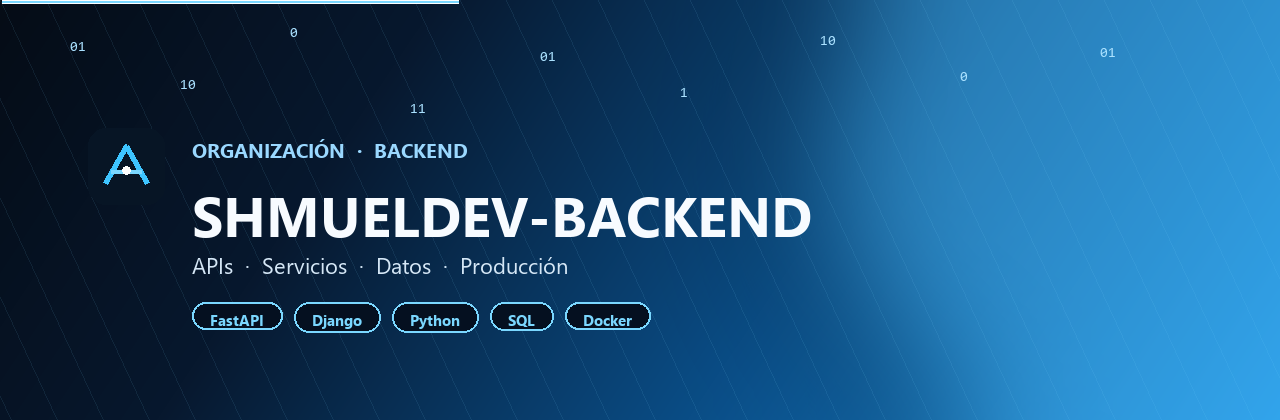
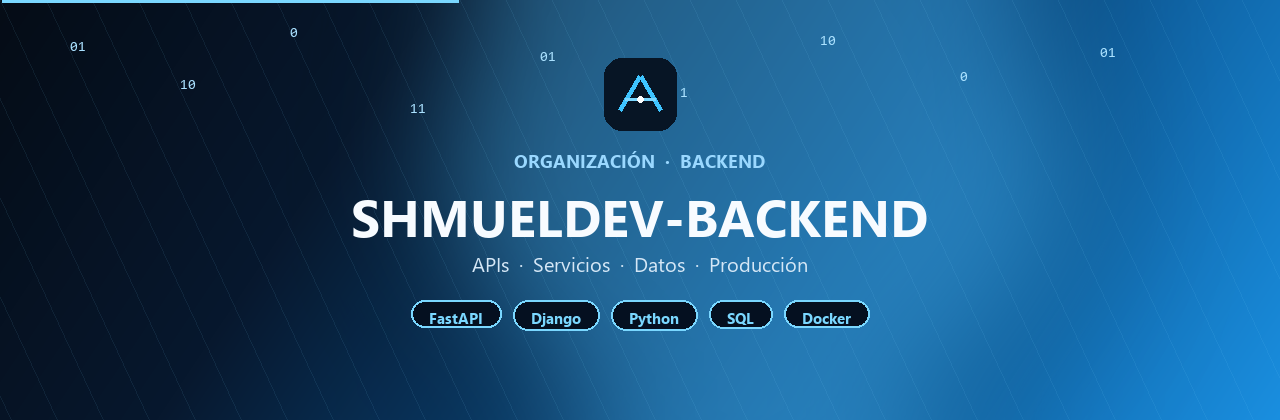
Mejora de la estructura

diff --git a/README.md b/README.md
@@ -4,41 +4,22 @@
 
 <br/>
 
-<p align="center">
-  <img src="https://img.shields.io/badge/ORG-SHMUELDEV--BACKEND-3ec4ff?style=for-the-badge&labelColor=050c16" alt="org" />
-  <img src="https://img.shields.io/badge/FOCUS-Backend%20%26%20APIs-1686d4?style=for-the-badge&labelColor=050c16" alt="focus" />
-  <img src="https://img.shields.io/badge/STATUS-Active-0e6aaf?style=for-the-badge&labelColor=050c16" alt="status" />
-</p>
+## Sobre la organización
 
-<p align="center">
-  <b>Casa de todos los proyectos backend de SHMUELDEV.</b><br/>
-  APIs claras · servicios operables · código listo para producción.
-</p>
+**SHMUELDEV-BACKEND** concentra los proyectos backend de la marca SHMUELDEV: APIs, servicios, acceso a datos y piezas listas para operar en producción.
+
+El objetivo no es acumular demos sueltas. Cada repositorio debe resolver un dominio claro, exponer un contrato entendible y poder levantarse sin adivinar pasos ocultos.
 
 ---
 
-## Enfoque
+## Qué encontrarás aquí
 
-<table>
-  <tr>
-    <td width="25%" valign="top">
-      <h3>APIs</h3>
-      FastAPI y Django con contratos claros, versionados y documentados.
-    </td>
-    <td width="25%" valign="top">
-      <h3>Datos</h3>
-      SQL, capas de acceso y modelos de dominio sin atajos frágiles.
-    </td>
-    <td width="25%" valign="top">
-      <h3>Servicios</h3>
-      Auth, reglas de negocio y orquestación que se pueden operar.
-    </td>
-    <td width="25%" valign="top">
-      <h3>Producción</h3>
-      Estructura, pruebas y despliegue: si no corre, no está listo.
-    </td>
-  </tr>
-</table>
+| Área | Contenido |
+| --- | --- |
+| **APIs** | Servicios HTTP con FastAPI o Django, documentados y versionados |
+| **Datos** | SQL, capas de acceso y modelos de dominio |
+| **Servicios** | Auth, reglas de negocio y orquestación entre componentes |
+| **Producción** | Estructura, pruebas, Docker y despliegue operable |
 
 ---
 
@@ -53,43 +34,31 @@
   <img src="https://img.shields.io/badge/Auth-050c16?style=for-the-badge&logo=auth0&logoColor=7ad7ff" alt="Auth" />
 </p>
 
-```text
-Python · FastAPI · Django · SQL · Auth · APIs · Docker
-```
-
 ---
 
-## Repositorios
-
-> Cada repo es un servicio o un dominio claro. La tabla se actualiza al publicar.
+## Proyectos
 
 | Proyecto | Descripción | Estado |
 | --- | --- | --- |
-| — | Primer servicio / API de la organización | En preparación |
+| API base | Primer servicio HTTP de la organización (auth + health + CRUD) | Próximo |
+| Auth service | Autenticación y autorización reutilizable entre servicios | Planeado |
+| Data layer | Plantilla de acceso a SQL y modelos de dominio | Planeado |
+
+> Cuando un repo se publique, esta tabla se actualiza con el enlace real.
 
 ---
 
-## Criterio de trabajo
+## Convenciones
 
-```diff
-+ Un repo = un servicio o un dominio claro
-+ README corto + contrato de API visible
-+ Entorno reproducible desde el día uno
-- Lo que no se puede operar no se considera terminado
-```
-
-1. Mismo criterio visual y de código que el resto de SHMUELDEV.
-2. Prioridad a claridad, trazabilidad y operación real.
-3. Producción no es un “después”: es parte del diseño.
+- Un repositorio = un servicio o un dominio claro.
+- README corto: qué hace, cómo levantarlo y cuál es el contrato de la API.
+- Entorno reproducible (Docker o instrucciones mínimas) desde el primer commit útil.
+- Si no se puede operar, no se considera terminado.
 
 ---
 
 <div align="center">
-
-  <img src="./assets/logo.png" alt="SHMUELDEV" width="48" />
-
+  <img src="./assets/banner-footer.png" alt="SHMUELDEV-BACKEND" width="100%" />
   <br/><br/>
-
   <sub><b>SHMUELDEV</b> · Backend con criterio · Sistemas que se pueden operar</sub>
-
 </div>

diff --git a/profile/README.md b/profile/README.md
@@ -4,41 +4,22 @@
 
 <br/>
 
-<p align="center">
-  <img src="https://img.shields.io/badge/ORG-SHMUELDEV--BACKEND-3ec4ff?style=for-the-badge&labelColor=050c16" alt="org" />
-  <img src="https://img.shields.io/badge/FOCUS-Backend%20%26%20APIs-1686d4?style=for-the-badge&labelColor=050c16" alt="focus" />
-  <img src="https://img.shields.io/badge/STATUS-Active-0e6aaf?style=for-the-badge&labelColor=050c16" alt="status" />
-</p>
+## Sobre la organización
 
-<p align="center">
-  <b>Casa de todos los proyectos backend de SHMUELDEV.</b><br/>
-  APIs claras · servicios operables · código listo para producción.
-</p>
+**SHMUELDEV-BACKEND** concentra los proyectos backend de la marca SHMUELDEV: APIs, servicios, acceso a datos y piezas listas para operar en producción.
+
+El objetivo no es acumular demos sueltas. Cada repositorio debe resolver un dominio claro, exponer un contrato entendible y poder levantarse sin adivinar pasos ocultos.
 
 ---
 
-## Enfoque
+## Qué encontrarás aquí
 
-<table>
-  <tr>
-    <td width="25%" valign="top">
-      <h3>APIs</h3>
-      FastAPI y Django con contratos claros, versionados y documentados.
-    </td>
-    <td width="25%" valign="top">
-      <h3>Datos</h3>
-      SQL, capas de acceso y modelos de dominio sin atajos frágiles.
-    </td>
-    <td width="25%" valign="top">
-      <h3>Servicios</h3>
-      Auth, reglas de negocio y orquestación que se pueden operar.
-    </td>
-    <td width="25%" valign="top">
-      <h3>Producción</h3>
-      Estructura, pruebas y despliegue: si no corre, no está listo.
-    </td>
-  </tr>
-</table>
+| Área | Contenido |
+| --- | --- |
+| **APIs** | Servicios HTTP con FastAPI o Django, documentados y versionados |
+| **Datos** | SQL, capas de acceso y modelos de dominio |
+| **Servicios** | Auth, reglas de negocio y orquestación entre componentes |
+| **Producción** | Estructura, pruebas, Docker y despliegue operable |
 
 ---
 
@@ -53,43 +34,31 @@
   <img src="https://img.shields.io/badge/Auth-050c16?style=for-the-badge&logo=auth0&logoColor=7ad7ff" alt="Auth" />
 </p>
 
-```text
-Python · FastAPI · Django · SQL · Auth · APIs · Docker
-```
-
 ---
 
-## Repositorios
-
-> Cada repo es un servicio o un dominio claro. La tabla se actualiza al publicar.
+## Proyectos
 
 | Proyecto | Descripción | Estado |
 | --- | --- | --- |
-| — | Primer servicio / API de la organización | En preparación |
+| API base | Primer servicio HTTP de la organización (auth + health + CRUD) | Próximo |
+| Auth service | Autenticación y autorización reutilizable entre servicios | Planeado |
+| Data layer | Plantilla de acceso a SQL y modelos de dominio | Planeado |
+
+> Cuando un repo se publique, esta tabla se actualiza con el enlace real.
 
 ---
 
-## Criterio de trabajo
+## Convenciones
 
-```diff
-+ Un repo = un servicio o un dominio claro
-+ README corto + contrato de API visible
-+ Entorno reproducible desde el día uno
-- Lo que no se puede operar no se considera terminado
-```
-
-1. Mismo criterio visual y de código que el resto de SHMUELDEV.
-2. Prioridad a claridad, trazabilidad y operación real.
-3. Producción no es un “después”: es parte del diseño.
+- Un repositorio = un servicio o un dominio claro.
+- README corto: qué hace, cómo levantarlo y cuál es el contrato de la API.
+- Entorno reproducible (Docker o instrucciones mínimas) desde el primer commit útil.
+- Si no se puede operar, no se considera terminado.
 
 ---
 
 <div align="center">
-
-  <img src="./logo.png" alt="SHMUELDEV" width="48" />
-
+  <img src="./banner-footer.png" alt="SHMUELDEV-BACKEND" width="100%" />
   <br/><br/>
-
   <sub><b>SHMUELDEV</b> · Backend con criterio · Sistemas que se pueden operar</sub>
-
 </div>
